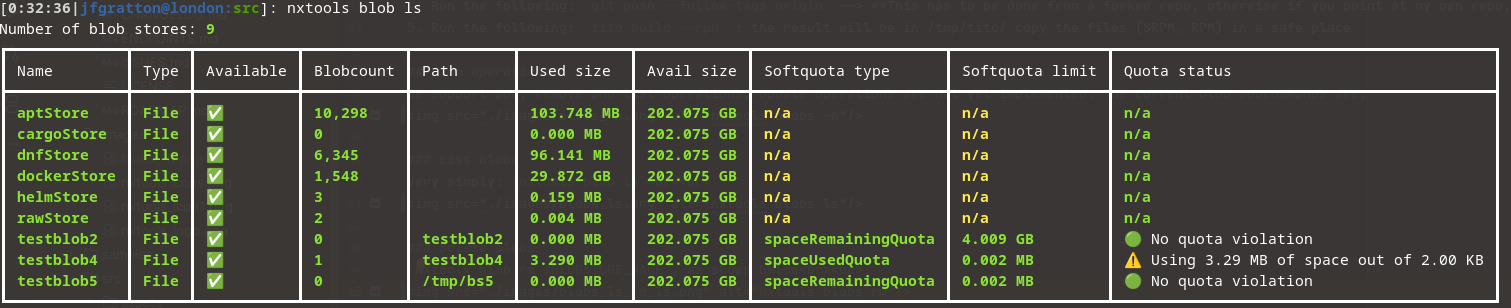
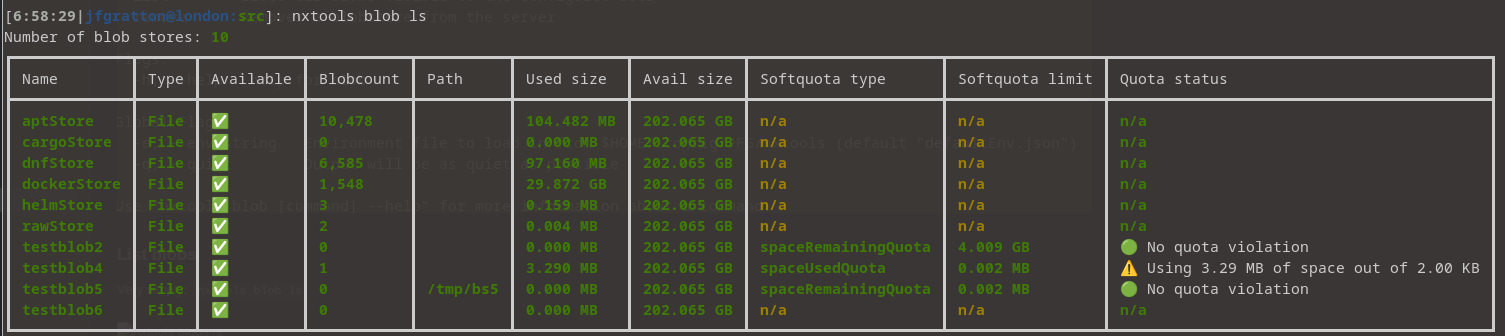
doc update, version bump

Changed region(s): [[0.0, 0.0, 0.9993, 0.9935], [0.7183, 0.3506, 0.7807, 0.3799]]

diff --git a/README.md b/README.md
@@ -60,9 +60,13 @@ We support add, remove and list operations; update operations are not yet implem
 Very simply: `nxtools blob ls`<br><br>
 <img src="./images/blobs_ls.png" alt="nxtools blobs ls"/>
 
+*A note about the Path column* : the column will not show any data for paths with relative values (that is: the blobstore path uses its default value, inside Nexus' $DATA_DIR)
+
+
 ### Delete blobs
 `nxtools blob rm $BLOBSTORE_NAME`, as shown below<br><br>
-<img src="./images/blobs_ls_rm_ls.png" alt="nxtools blobs rm"/>
+<img src="./images/blobs_ls-rm-ls.png" alt="nxtools blobs rm"/>
+
 
 ### Create blob stores
 
